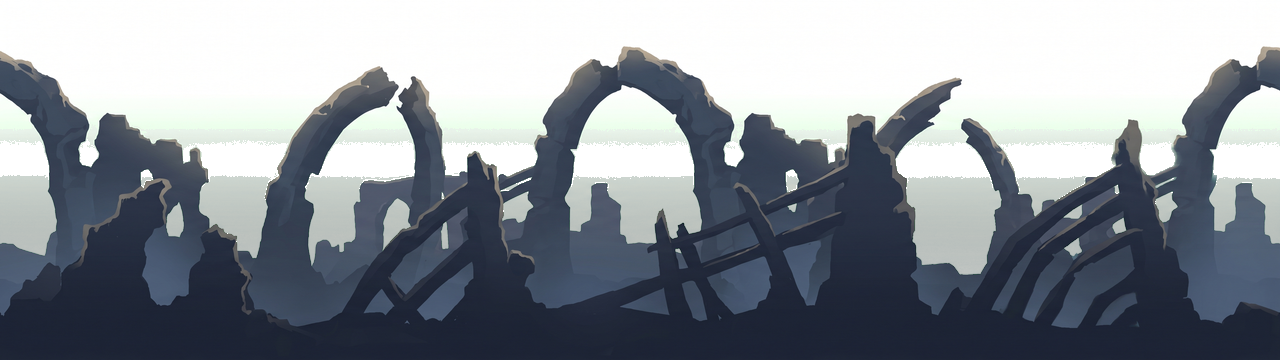
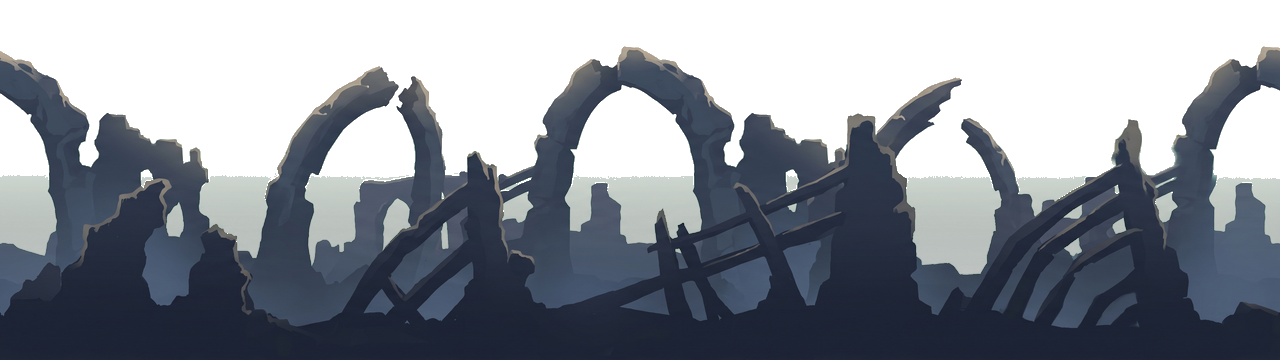
fix: level decals

Changed region(s): [[0.0625, 0.3667, 0.5625, 0.4278], [0.5938, 0.3667, 1.0, 0.4278], [0.0, 0.3667, 0.0312, 0.3972]]

diff --git a/src/render/cosmeticRenderer.ts b/src/render/cosmeticRenderer.ts
@@ -8,14 +8,14 @@
 
 import type { Level } from '../world/level'
 import type { CosmeticData, PropDef } from './cosmeticAssets'
-import { Container, Sprite, TilingSprite } from 'pixi.js'
+import { Container, Filter, GlProgram, Sprite, TilingSprite } from 'pixi.js'
 import { CONFIG } from '../config'
 
 export interface CosmeticState {
   parallaxContainer: Container
   parallaxSprites: { sprite: TilingSprite | Sprite, depth: number, yDepth: number, baseY: number }[]
   propContainer: Container
-  propSprites: Sprite[]
+  waveFilter: WaveFilter | null
 }
 
 // Seeded RNG matching parallax.ts style
@@ -29,12 +29,73 @@ function makeRng(seed: number): () => number {
   }
 }
 
+// ─── Subtle wave distortion filter ──────────────────────────────────
+// UV-space sine wobble applied to the prop container. Very gentle —
+// reads as heat-haze / ambient shimmer, not underwater.
+
+const WAVE_VERT = /* glsl */ `
+in vec2 aPosition;
+out vec2 vTextureCoord;
+uniform vec4 uInputSize;
+uniform vec4 uOutputFrame;
+uniform vec4 uOutputTexture;
+vec4 filterVertexPosition(void) {
+  vec2 position = aPosition * uOutputFrame.zw + uOutputFrame.xy;
+  position.x = position.x * (2.0 / uOutputTexture.x) - 1.0;
+  position.y = position.y * (2.0*uOutputTexture.z / uOutputTexture.y) - uOutputTexture.z;
+  return vec4(position, 0.0, 1.0);
+}
+vec2 filterTextureCoord(void) {
+  return aPosition * (uOutputFrame.zw * uInputSize.zw);
+}
+void main(void) {
+  gl_Position = filterVertexPosition();
+  vTextureCoord = filterTextureCoord();
+}
+`
+
+const WAVE_FRAG = /* glsl */ `
+in vec2 vTextureCoord;
+out vec4 finalColor;
+uniform sampler2D uTexture;
+uniform float uTime;
+uniform vec4 uInputSize;
+void main(void) {
+  vec2 uv = vTextureCoord;
+  // Horizontal wave — subtle sine distortion
+  float wave = sin(uv.y * 18.0 + uTime * 1.4) * 0.0015
+             + sin(uv.y * 7.0  - uTime * 0.9) * 0.001;
+  uv.x += wave;
+  // Vertical shimmer — even subtler
+  uv.y += sin(uv.x * 12.0 + uTime * 1.1) * 0.001;
+  finalColor = texture(uTexture, uv);
+}
+`
+
+class WaveFilter extends Filter {
+  constructor() {
+    const glProgram = GlProgram.from({
+      vertex: WAVE_VERT,
+      fragment: WAVE_FRAG,
+    })
+    super({ glProgram, resources: { waveUniforms: { uTime: { value: 0, type: 'f32' } } } })
+  }
+
+  get time(): number {
+    return (this.resources as any).waveUniforms.uniforms.uTime as number
+  }
+
+  set time(v: number) {
+    ;(this.resources as any).waveUniforms.uniforms.uTime = v
+  }
+}
+
 export function createCosmeticState(): CosmeticState {
   return {
     parallaxContainer: new Container(),
     parallaxSprites: [],
     propContainer: new Container(),
-    propSprites: [],
+    waveFilter: null,
   }
 }
 
@@ -47,7 +108,8 @@ export function populateCosmetics(
   state.parallaxContainer.removeChildren()
   state.parallaxSprites.length = 0
   state.propContainer.removeChildren()
-  state.propSprites.length = 0
+  state.waveFilter = null
+  state.propContainer.filters = []
 
   const screenW = CONFIG.LOGICAL_WIDTH
   const screenH = CONFIG.LOGICAL_HEIGHT
@@ -86,10 +148,20 @@ export function populateCosmetics(
   if (data.props.length > 0 && data.propDensity > 0) {
     const rng = makeRng(data.propScatterSeed)
 
-    // Scatter props along the world width. Density = average props per 100px.
+    // Find the topmost surface Y from colliders so props sit on the
+    // actual floor, not at worldHeight (which is below the ground).
+    let floorY = level.worldHeight
+    for (const c of level.colliders) {
+      for (const v of c.vertices) {
+        if (v.y < floorY)
+          floorY = v.y
+      }
+    }
+
+    // Scatter props along the world width.
+    // density = probability per 30px slot → high density fills the floor.
     const worldW = level.worldWidth
-    const worldH = level.worldHeight
-    const step = 100
+    const step = 30
     const count = Math.floor(worldW / step)
 
     for (let i = 0; i < count; i++) {
@@ -100,30 +172,34 @@ export function populateCosmetics(
       const s = new Sprite(propDef.texture)
       s.anchor.set(propDef.anchor[0], propDef.anchor[1])
 
-      // Position: random x within this step, y near the bottom of the world
-      // (props sit on or near the ground plane)
+      // Position: random x within this slot, y just above the floor
       s.x = i * step + rng() * step
-      // Place props at worldHeight (ground level) with slight variation
-      s.y = worldH - 2 + rng() * 4
+      s.y = floorY - 1 + rng() * 3
 
-      // Slight scale variation for organic feel
-      const baseScale = 0.8 + rng() * 0.5
+      // Scale variation — keep props small as background decals
+      const baseScale = 0.2 + rng() * 0.25
       s.scale.set(baseScale)
 
-      // Desaturate slightly via alpha for depth
-      s.alpha = 0.4 + rng() * 0.3
+      // Varied alpha for depth layering
+      s.alpha = 0.3 + rng() * 0.4
 
       state.propContainer.addChild(s)
-      state.propSprites.push(s)
     }
+
+    // Apply wave distortion filter to the whole prop layer
+    const wave = new WaveFilter()
+    state.waveFilter = wave
+    state.propContainer.filters = [wave]
   }
 }
 
-export function updateCosmeticParallax(
+export function updateCosmetics(
   state: CosmeticState,
   cameraX: number,
   cameraY: number,
+  time: number,
 ): void {
+  // Parallax
   for (const layer of state.parallaxSprites) {
     if (layer.sprite instanceof TilingSprite) {
       layer.sprite.tilePosition.x = -cameraX * layer.depth
@@ -133,11 +209,16 @@ export function updateCosmeticParallax(
     }
     layer.sprite.y = layer.baseY - cameraY * layer.yDepth
   }
+
+  // Drive wave distortion filter
+  if (state.waveFilter)
+    state.waveFilter.time = time
 }
 
 export function teardownCosmetics(state: CosmeticState): void {
   state.parallaxContainer.removeChildren()
   state.parallaxSprites.length = 0
   state.propContainer.removeChildren()
-  state.propSprites.length = 0
+  state.propContainer.filters = []
+  state.waveFilter = null
 }

diff --git a/src/render/index.ts b/src/render/index.ts
@@ -24,7 +24,7 @@ import { shootingDisabled } from '../enemies/classics'
 import { hushIsSilencingPlayer } from '../enemies/specials'
 import { getItemDef } from '../items'
 import { drawClassics } from './classicsRenderer'
-import { createCosmeticState, teardownCosmetics, updateCosmeticParallax } from './cosmeticRenderer'
+import { createCosmeticState, teardownCosmetics, updateCosmetics } from './cosmeticRenderer'
 import { createEnemySpritePool, hideExcessSprites, positionEnemySprite } from './enemySpritePool'
 import { flashAlpha } from './fx'
 import { getItemTexture } from './itemAssets'
@@ -499,7 +499,7 @@ export function render(
   ctx.worldContainer.x = -camX * zoom + cx0 * (1 - zoom)
   ctx.worldContainer.y = -camY * zoom + cy0 * (1 - zoom)
   updateParallax(ctx.parallax, camX, camY)
-  updateCosmeticParallax(ctx.cosmetic, camX, camY)
+  updateCosmetics(ctx.cosmetic, camX, camY, ctx.time)
 
   // ─── Skeletal character sync ─────────────────────────────────
   const ratio0 = player.instability.value / CONFIG.INSTABILITY_MAX
